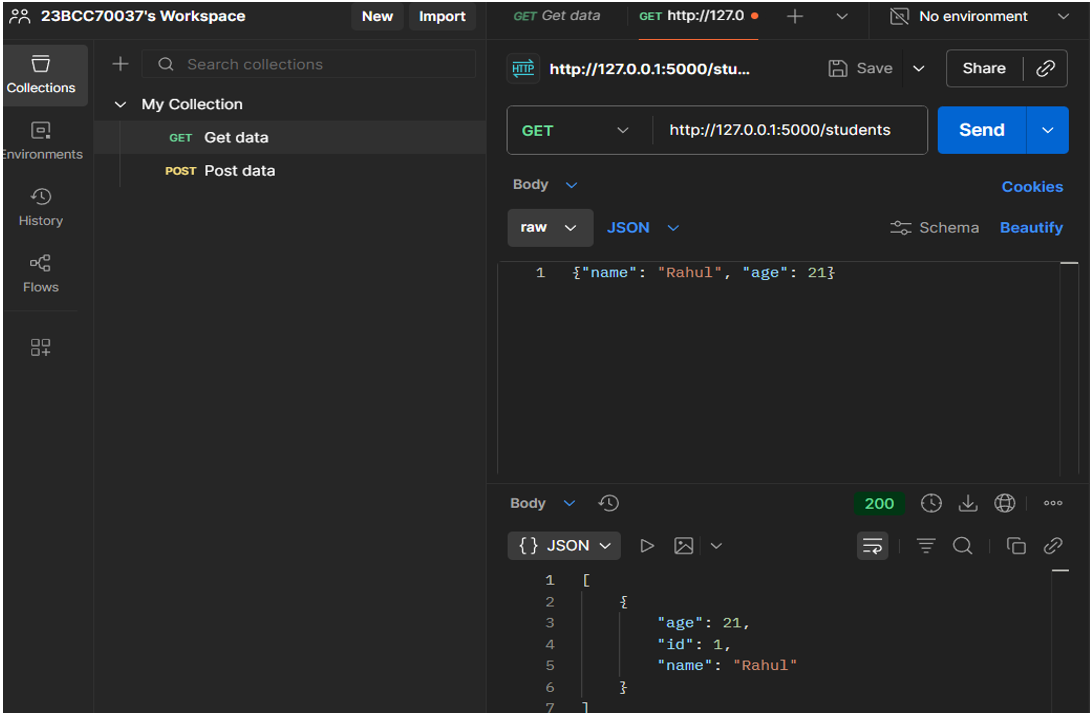
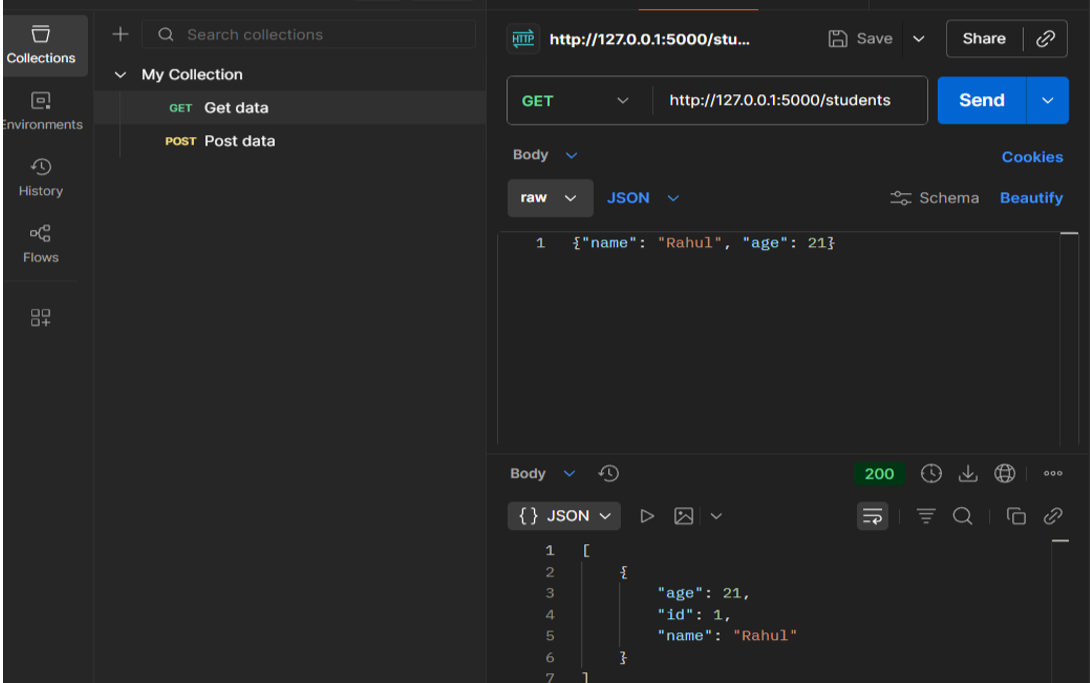
yes

diff --git a/exp-7/routes/students_routes.py b/exp-7/routes/students_routes.py
@@ -1,0 +1,93 @@
+from flask import Blueprint, request, jsonify
+
+# Explanation of the code structure and functionality:
+
+# This code defines a set of routes for managing student data in a Flask application. 
+# The `student_bp` Blueprint is created to group all student-related routes together.
+# The routes include:
+# - `create_student`: A POST route to create a new student. It expects a JSON payload with the student's name and optionally their age. It returns the created student object with a unique ID.
+# - `get_students`: A GET route to retrieve a list of all students. It returns a JSON array of student objects.
+# - `get_student`: A GET route to retrieve a specific student by their ID. It returns the student object if found, or an error message if the student is not found.         
+# - `update_student`: A PUT route to update an existing student's information. It expects a JSON payload with the updated name and/or age. It returns the updated student object if found, or an error message if the student is not found.
+# - `delete_student`: A DELETE route to remove a student by their ID. It returns a success message if the student is deleted, or an error message if the student is not found.      
+
+# what is a blueprint in flask?
+# A Blueprint in Flask is a way to organize a group of related routes and functionality. It allows you to modularize your application by grouping routes, templates, and static files together.
+# Blueprints can be registered on the main application, and they help in keeping the codebase organized and maintainable, especially as the application grows in size. They also allow for better code reuse and separation of concerns.        
+
+
+student_bp = Blueprint("students", __name__)
+
+# In-memory storage
+students = []
+current_id = 1
+
+
+# CREATE
+@student_bp.route("/students", methods=["POST"])
+def create_student():
+    global current_id
+
+    data = request.get_json()
+
+    if not data or "name" not in data:
+        return jsonify({"error": "Name is required"}), 400
+
+    student = {
+        "id": current_id,
+        "name": data["name"],
+        "age": data.get("age", None)
+    }
+
+    students.append(student)
+    current_id += 1
+
+    return jsonify(student), 201
+
+
+# READ ALL
+@student_bp.route("/students", methods=["GET"])
+def get_students():
+    return jsonify(students), 200
+
+
+# READ ONE
+@student_bp.route("/students/<int:student_id>", methods=["GET"])
+def get_student(student_id):
+    student = next((s for s in students if s["id"] == student_id), None)
+
+    if not student:
+        return jsonify({"error": "Student not found"}), 404
+
+    return jsonify(student), 200
+
+
+
+# UPDATE
+@student_bp.route("/students/<int:student_id>", methods=["PUT"])
+def update_student(student_id):
+    data = request.get_json()
+    student = next((s for s in students if s["id"] == student_id), None)
+
+    if not student:
+        return jsonify({"error": "Student not found"}), 404
+
+    student["name"] = data.get("name", student["name"])
+    student["age"] = data.get("age", student["age"])
+
+    return jsonify(student), 200
+
+
+# DELETE
+@student_bp.route("/students/<int:student_id>", methods=["DELETE"])
+def delete_student(student_id):
+    global students
+
+    student = next((s for s in students if s["id"] == student_id), None)
+
+    if not student:
+        return jsonify({"error": "Student not found"}), 404
+
+    students = [s for s in students if s["id"] != student_id]
+
+    return jsonify({"message": "Deleted successfully"}), 200

diff --git a/exp-9/app.py b/exp-9/app.py
@@ -1,0 +1,130 @@
+# from flask import Flask, app, request, jsonify
+# from auth_routes import app as auth_app
+
+from flask import Flask, request, jsonify
+from flask_jwt_extended import (
+    JWTManager, create_access_token,
+    jwt_required, get_jwt_identity
+)
+import base64
+
+app = Flask(__name__)
+app.config["JWT_SECRET_KEY"] = "super-secret-key"
+
+jwt = JWTManager(app)
+
+# ================================
+# In-memory user store
+# ================================
+users = {
+    "admin": {
+        "password": "admin123",
+        "role": "admin"
+    },
+    "john": {
+        "password": "john123",
+        "role": "user"
+    }
+}
+
+# ================================
+# 1. BASIC AUTHENTICATION
+# ================================
+@app.route("/basic-protected")
+def basic_protected():
+    auth = request.authorization
+
+    if not auth:
+        return jsonify({"error": "Missing Basic Auth"}), 401
+
+    user = users.get(auth.username)
+
+    if user and user["password"] == auth.password:
+        return jsonify({"message": f"Basic Auth Success. Welcome {auth.username}!"})
+
+    return jsonify({"error": "Invalid credentials"}), 401
+
+
+# ================================
+# 2. SIMPLE TOKEN AUTHENTICATION
+# ================================
+
+# Generate simple token (not JWT)
+@app.route("/token-login", methods=["POST"])
+def token_login():
+    data = request.json
+    username = data.get("username")
+    password = data.get("password")
+
+    user = users.get(username)
+
+    if user and user["password"] == password:
+        token = base64.b64encode(username.encode()).decode()
+        return jsonify({"token": token})
+
+    return jsonify({"error": "Invalid credentials"}), 401
+
+
+@app.route("/token-protected")
+def token_protected():
+    token = request.headers.get("x-auth-token")
+
+    if not token:
+        return jsonify({"error": "Missing Token"}), 401
+
+    try:
+        username = base64.b64decode(token).decode()
+        if username in users:
+            return jsonify({"message": f"Token Auth Success. Welcome {username}!"})
+    except:
+        pass
+
+    return jsonify({"error": "Invalid Token"}), 401
+
+
+# ================================
+# 3. JWT AUTHENTICATION
+# ================================
+
+@app.route("/jwt-login", methods=["POST"])
+def jwt_login():
+    data = request.json
+    username = data.get("username")
+    password = data.get("password")
+
+    user = users.get(username)
+
+    if user and user["password"] == password:
+        token = create_access_token(identity=username)
+        return jsonify({"access_token": token})
+
+    return jsonify({"error": "Invalid credentials"}), 401
+
+
+@app.route("/jwt-protected")
+@jwt_required()
+def jwt_protected():
+    current_user = get_jwt_identity()
+    return jsonify({"message": f"JWT Auth Success. Welcome {current_user}!"})
+
+
+
+# ================================
+# ROOT ROUTE
+# ================================
+@app.route("/")
+def home():
+    return jsonify({
+        "message": "Authentication Experiment Running",
+        "routes": [
+            "/basic-protected (Basic Auth)",
+            "/token-login (POST)",
+            "/token-protected (x-auth-token header)",
+            "/jwt-login (POST)",
+            "/jwt-protected (Bearer Token)"
+        ]
+    })
+
+
+if __name__ == "__main__":
+    app.run(host="0.0.0.0", port=5000, debug=True)

diff --git a/exp-7/app.py b/exp-7/app.py
@@ -1,0 +1,20 @@
+from flask import Flask
+# from routes.student_routes import student_bp
+# from middleware.logger import register_middlewares
+
+def create_app():
+    app = Flask(__name__)
+
+    # Register Blueprints
+    # app.register_blueprint(student_bp)
+
+    # Register Middlewares
+    # register_middlewares(app)
+
+    return app
+
+app = create_app()
+
+@app.route("/")
+def home():
+    return {"message": "Backend Server is running"}

diff --git a/exp-7/run.py b/exp-7/run.py
@@ -1,0 +1,4 @@
+from app import app
+
+if __name__ == "__main__":
+    app.run(debug=True)
